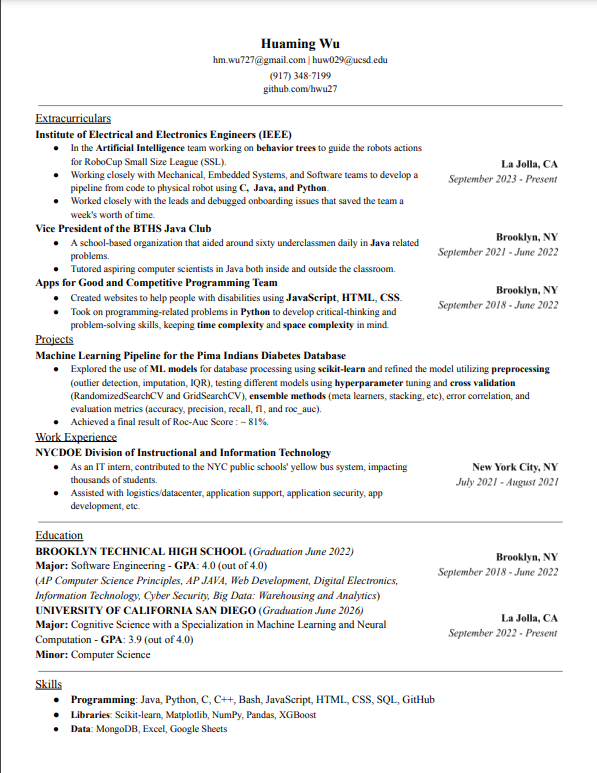
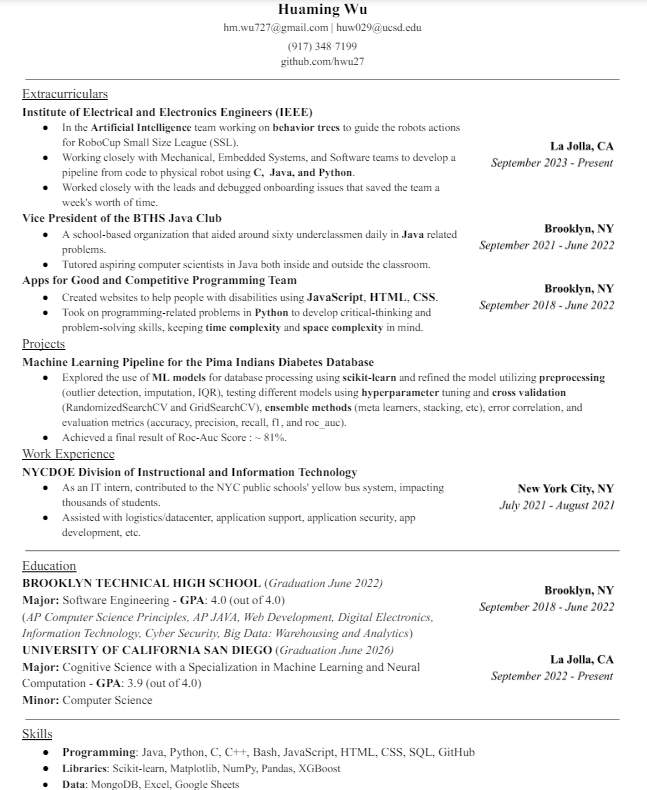
added resume zoom, links, new tab for projects

diff --git a/app/page.jsx b/app/page.jsx
@@ -2,6 +2,7 @@
 import React, { useState, useEffect, useRef } from 'react';
 import { Engine, Render, Composite, Bodies, Runner } from 'matter-js';
 import { FaArrowDown  } from "react-icons/fa";
+import Modal from 'react-modal';
 
 function Page() {
     const [isNavbarOpen, setNavbarOpen] = React.useState(false);
@@ -201,13 +202,23 @@ function Page() {
 
     const [isVisible, setIsVisible] = useState({});
     
+    const [isModalOpen, setIsModalOpen] = useState(false);
+
+    const handleImageClick = () => {
+      setIsModalOpen(true);
+    };
+  
+    const handleCloseModal = () => {
+      setIsModalOpen(false);
+    };
+
     return (
         <>  
             {/* Landing page*/}
             {showLanding && <div id="landing">
                     <header className="text-6xl select-none text-center bg-gradient-to-r from-orange-200 to-orange-100 text-gray-700 flex justify-center items-center h-screen">
                         <div className="space-y-4">
-                            <button className="flex hover:bg-orange-100 rounded-lg p-10 font-bold" onClick={ toggleCurtainResume }> The important stuff </button>
+                            <button className="flex hover:bg-orange-100 rounded-lg p-10 font-bold" onClick={ toggleCurtainResume }> Resume/Projects </button>
                             <p>or</p>
                             <button className="flex justify-center hover:bg-orange-100 rounded-lg p-10 text-4xl w-full" onClick={ toggleCurtainWAI }>Quick: Who am I?</button>
                         </div>
@@ -399,7 +410,7 @@ function Page() {
                         {/* Row 1 */}
                         <div className="flex flex-row space-x-4 ml-4 mr-4 text-xl">
                             <div id="portfolio" className="w-1/3">
-                                <a href="project-portfolio">
+                                <a href="https://github.com/hwu27/hm" target="_blank" rel="noopener noreferrer">
                                     <div className="text-center bg-orange-300 shadow-xl rounded-t-lg p-1">
                                         Portfolio Website
                                     </div>
@@ -409,7 +420,7 @@ function Page() {
                                 </a>
                             </div>
                             <div id="rltree" className="w-1/3">
-                                <a href="project-rltree">
+                                <a href="https://github.com/hwu27/rl_tree" target="_blank" rel="noopener noreferrer">
                                     <div className="text-center bg-orange-300 shadow-xl rounded-t-lg p-1">
                                         RL Tree
                                     </div>
@@ -419,7 +430,7 @@ function Page() {
                                 </a>
                             </div>
                             <div id="pima" className="w-1/3">
-                                <a href="project-pima">
+                                <a href="https://github.com/hwu27/diabetes-mlpipeline" target="_blank" rel="noopener noreferrer">
                                     <div className="text-center bg-orange-300 shadow-xl rounded-t-lg p-1">
                                         Pima Indians Diabetes Prediction
                                     </div>
@@ -432,7 +443,7 @@ function Page() {
                         {/* Row 2 */}
                         <div className="flex flex-row space-x-4 ml-4 mr-4 mt-10 text-xl">
                             <div id="robocup" className="w-1/3">
-                                <a href="project-robocup">
+                                <a href="https://github.com/hwu27/robocup/tree/main" target="_blank" rel="noopener noreferrer">
                                     <div className="text-center bg-orange-300 shadow-xl rounded-t-lg p-1">
                                         RoboCup SSL
                                     </div>
@@ -442,7 +453,7 @@ function Page() {
                                 </a>
                             </div>
                             <div id="mlproj" className="w-1/3">
-                                <a href="project-mlproj">
+                                <a href="https://github.com/hwu27/mlproj" target="_blank" rel="noopener noreferrer">
                                     <div className="text-center bg-orange-300 shadow-xl rounded-t-lg p-1">
                                         mlproj
                                     </div>
@@ -452,7 +463,7 @@ function Page() {
                                 </a>
                             </div>
                             <div id="ailand" className="w-1/3">
-                                <a href="project-ailand">
+                                <a href="https://github.com/hwu27/Ailand-Personal" target="_blank" rel="noopener noreferrer">
                                     <div className="text-center bg-orange-300 shadow-xl rounded-t-lg p-1">
                                         AiLand
                                     </div> 
@@ -471,8 +482,26 @@ function Page() {
                         </div>
                     </div>
                     <div className="m-10 mb-0 font-bold text-5xl">
-                        <img className="p-5 mx-auto" src="./images/resume.png"></img>
+                        <img className="p-5 mx-auto" src="./images/resume.png" onClick={handleImageClick}></img>
                     </div>
+                    <Modal
+                        isOpen={isModalOpen}
+                        onRequestClose={ handleCloseModal }
+                        style={{
+                        overlay: {
+                            backgroundColor: "rgba(0, 0, 0, 0.5)",
+                        },
+                        content: {
+                            border: "none",
+                            overflow: "auto",
+                        },
+                        }}
+                    >
+                        <img
+                        src="./images/resume.png"
+                        style={{ width: "125%", height: "125%", objectFit: "contain" }}
+                        />
+                    </Modal>
                 </div>
                 {/* Contact */}
                 <footer id="contact-resume" className="text-center px-4 py-1 text-sm bg-orange-50">
